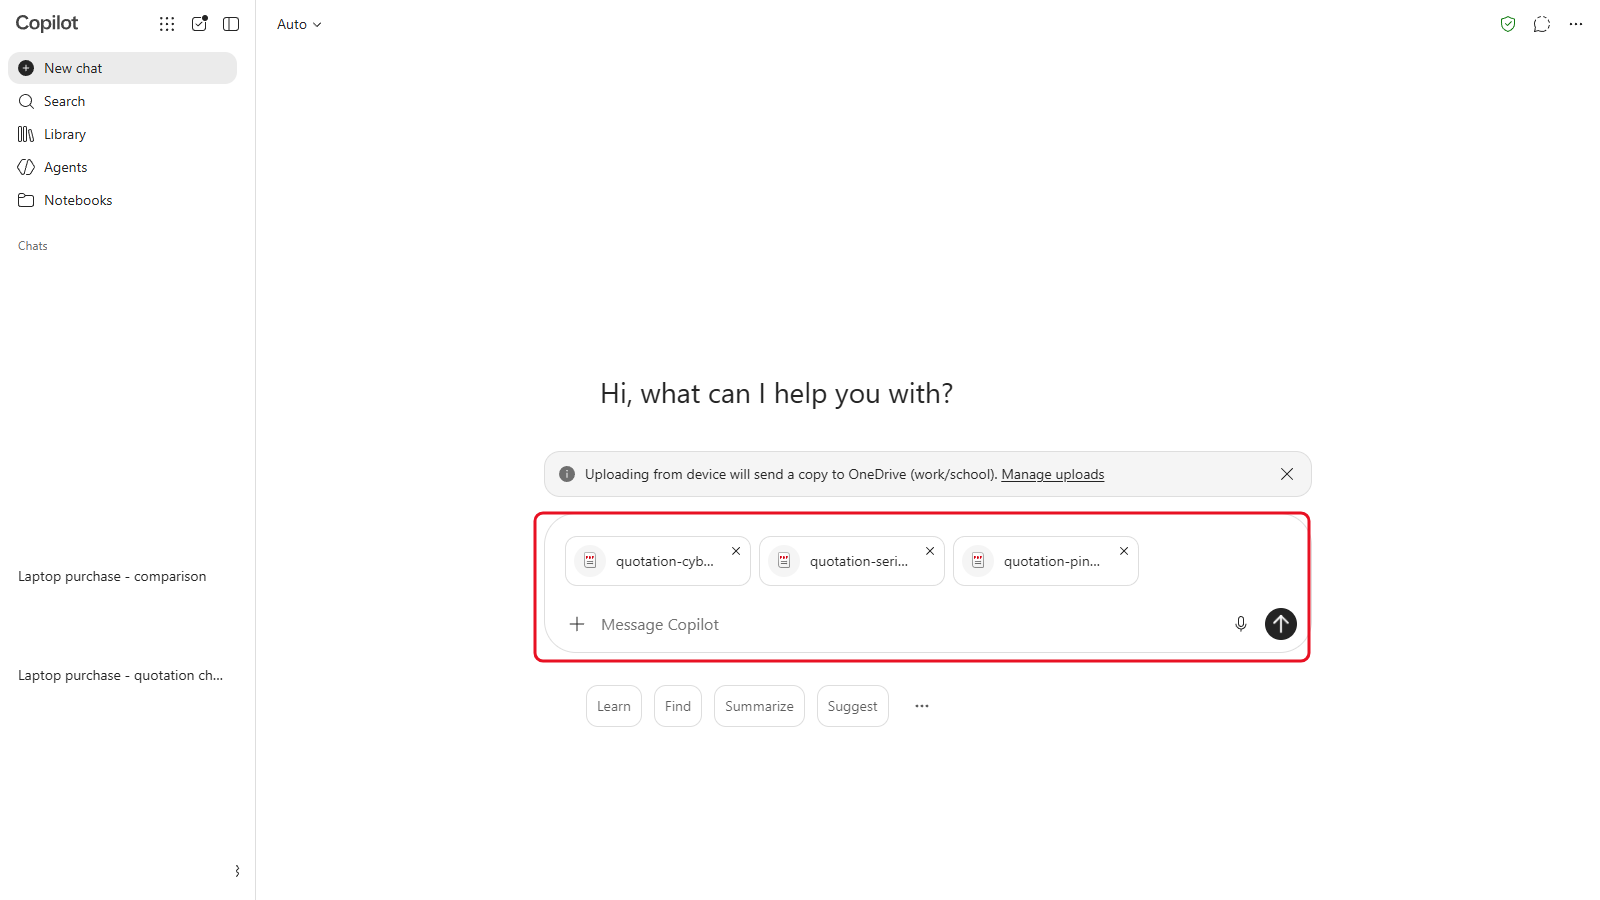
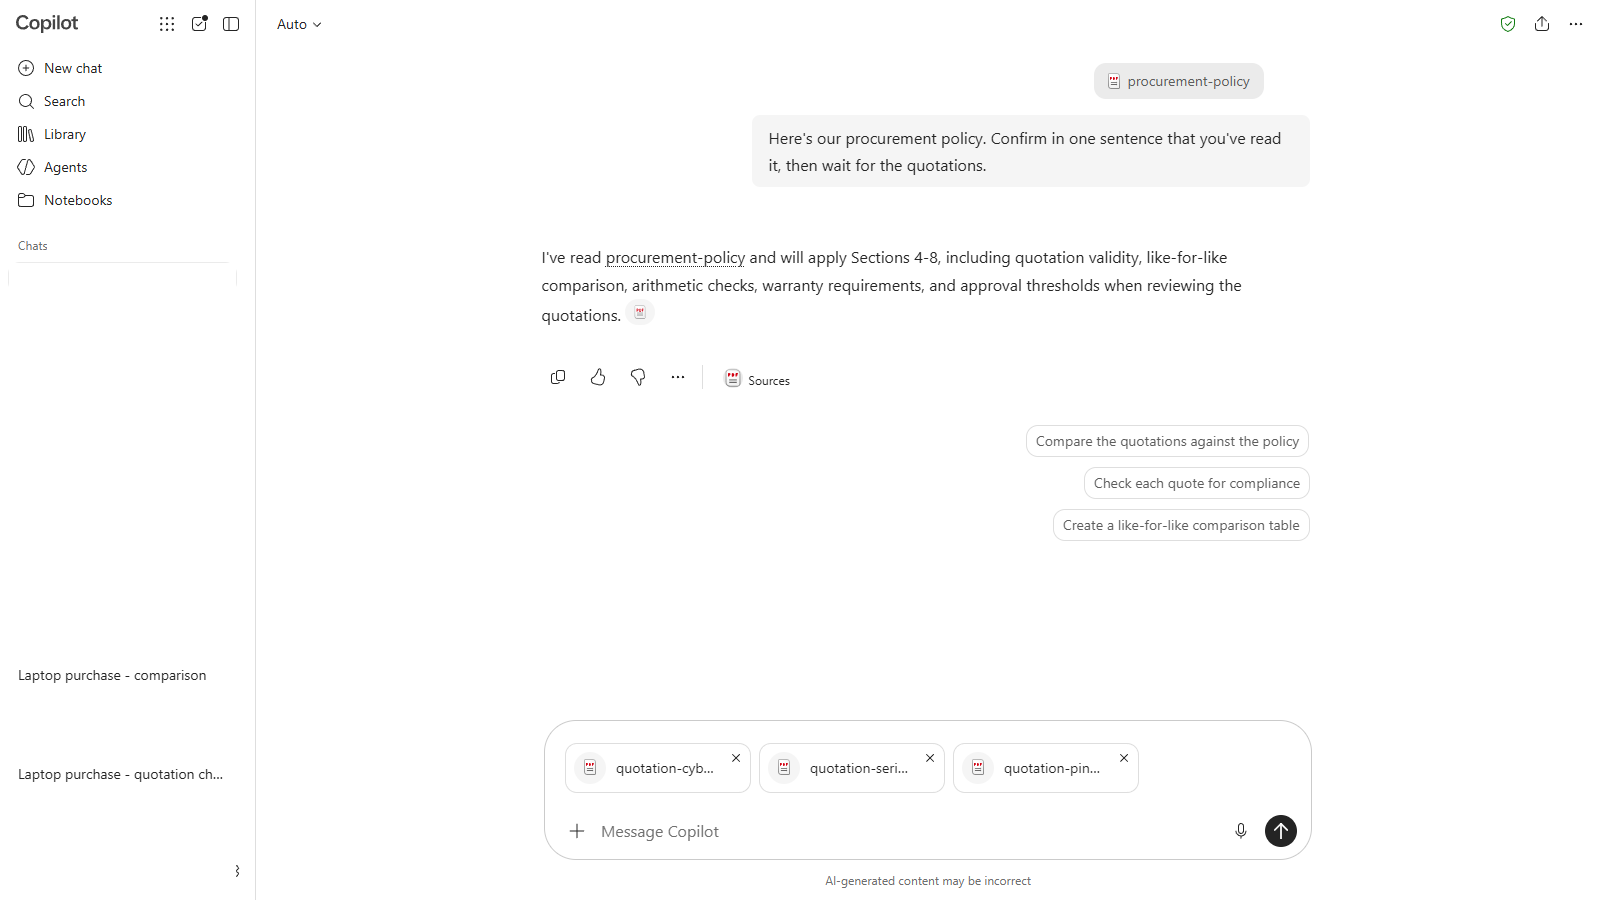
Add 04-compare-the-quotations screenshots

diff --git a/_design/shots/NOTES.md b/_design/shots/NOTES.md
@@ -125,3 +125,5 @@ Codex adds one line here for each step where the screen did not match the notes.
 - 11-extra-practice, A result: README says the announcement has the collection date and keeps all facts; UI shows the supplied draft only says the stated date; the revision uses scheduled date and adds security and allocation wording absent from the draft.
 
 - 11-extra-practice, B: README says Visual Creator generates a notice image; UI shows normal Copilot Chat generated a blue and white laptop notice image with the same prompt; the image was not posted.
+
+- 04-compare-the-quotations, 4.2 / 04-02 retake3: README says send the policy first, then attach three quotations before sending the next prompt; UI shows the policy was uploaded and acknowledged in its own message; the three quotation PDFs finished uploading in the next empty message box, the Microsoft survey was closed and no pop-up remained at capture; no quotation prompt was sent.
